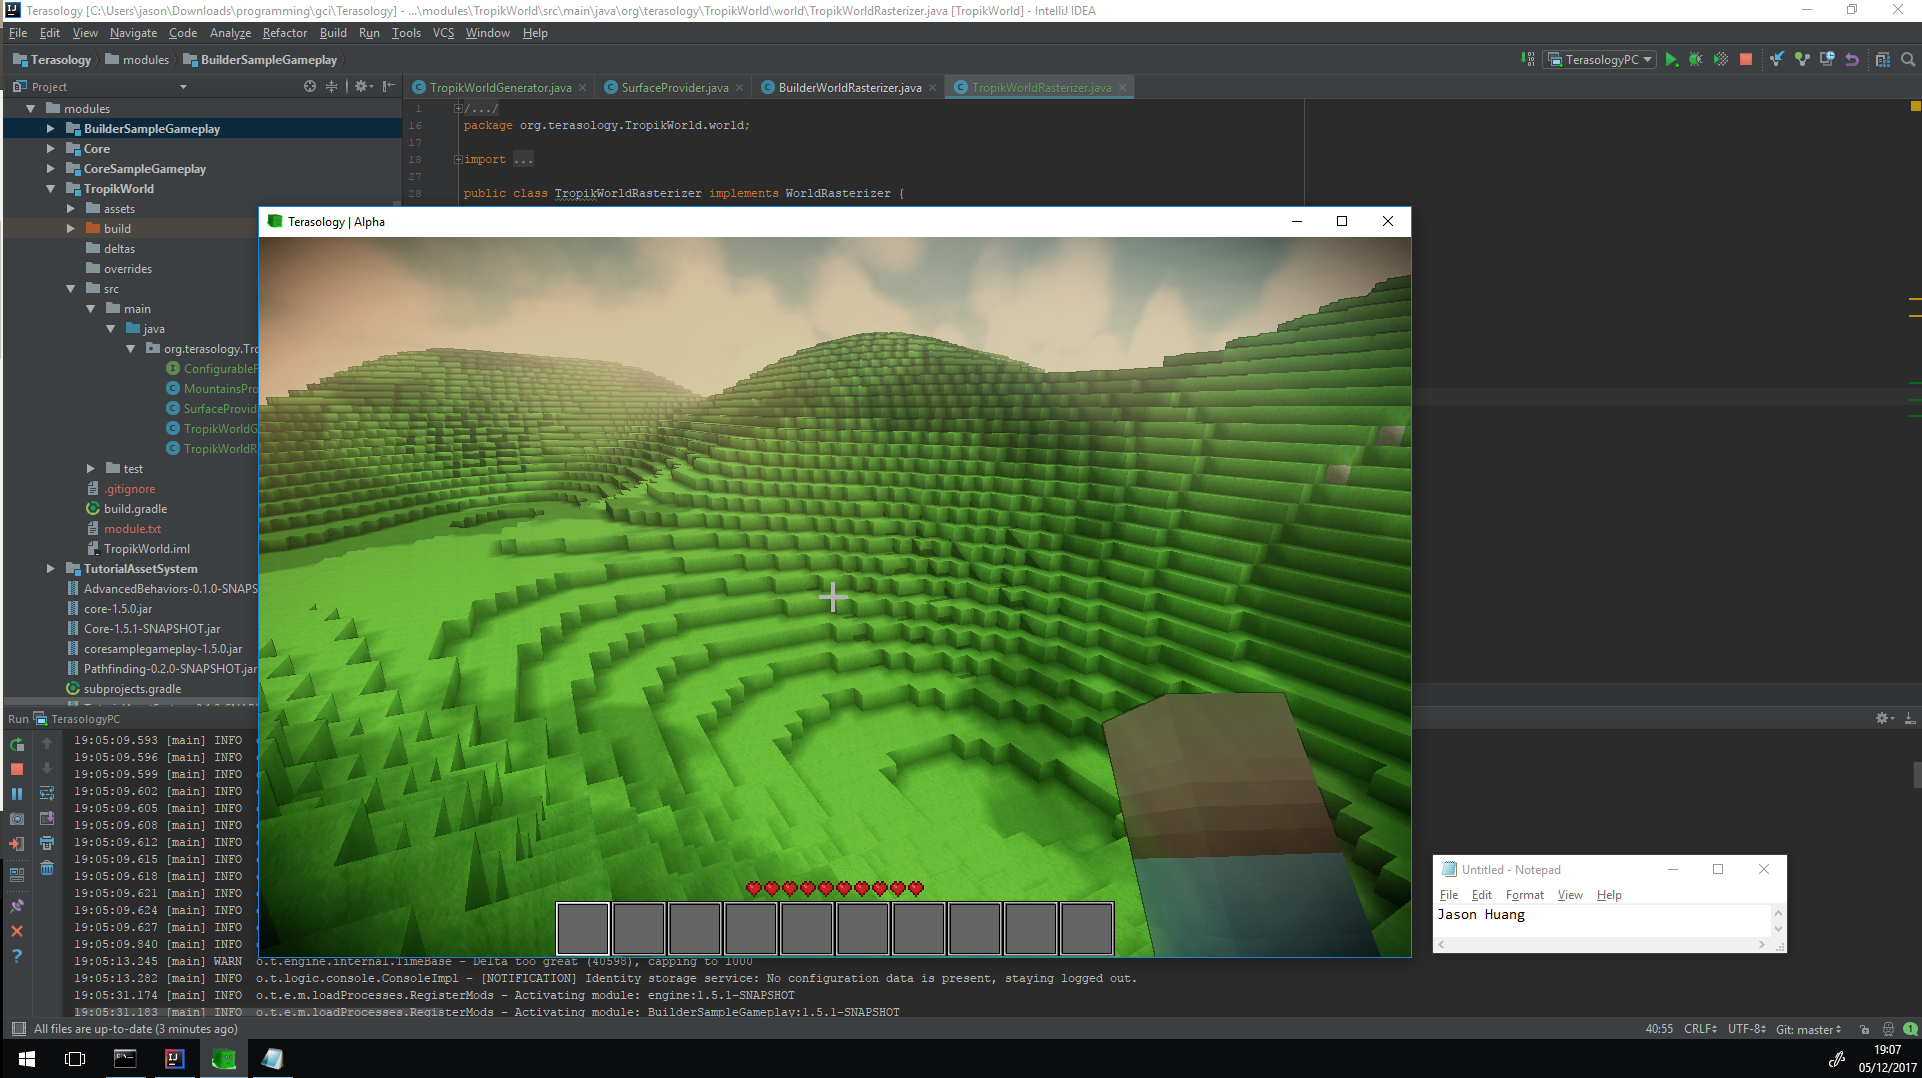
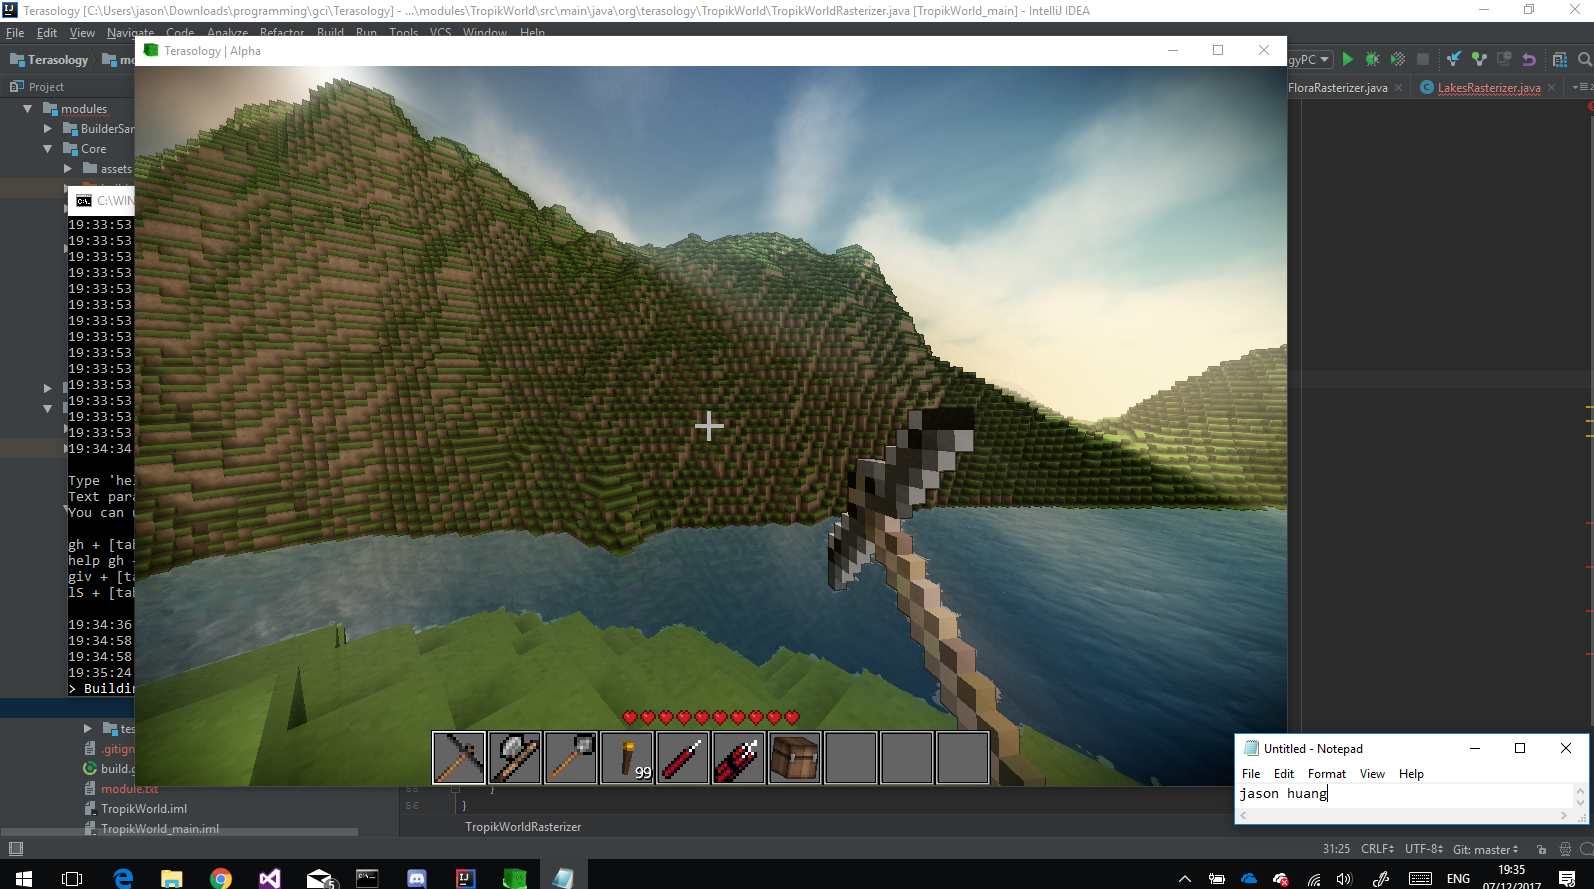
TropikWorld
Fixed the blocks and added mountains and lakes

diff --git a/src/main/java/org/terasology/TropikWorld/LakesRasterizer.java b/src/main/java/org/terasology/TropikWorld/LakesRasterizer.java
@@ -22,34 +22,30 @@ import org.terasology.world.block.Block;
 import org.terasology.world.block.BlockManager;
 import org.terasology.world.chunks.CoreChunk;
 import org.terasology.world.generation.Region;
-import org.terasology.world.generation.WorldRasterizer;
+import org.terasology.world.generation.WorldRasterizerPlugin;
+import org.terasology.world.generation.facets.SeaLevelFacet;
 import org.terasology.world.generation.facets.SurfaceHeightFacet;
+import org.terasology.world.generator.plugin.RegisterPlugin;
 
-public class TropikWorldRasterizer implements WorldRasterizer {
-    private Block dirt;
-    private Block grass;
-    private Block stone;
+
+@RegisterPlugin
+public class LakesRasterizer implements WorldRasterizerPlugin{
+    private Block water;
 
     @Override
-    public void initialize() {
-        dirt = CoreRegistry.get(BlockManager.class).getBlock("Core:Dirt");
-        grass = CoreRegistry.get(BlockManager.class).getBlock("Core:Grass");
-        stone = CoreRegistry.get(BlockManager.class).getBlock("Core:Stone");
+    public void initialize(){
+        water = CoreRegistry.get(BlockManager.class).getBlock("Core:Water");
     }
 
     @Override
-    public void generateChunk(CoreChunk chunk, Region chunkRegion) {
+    public void generateChunk (CoreChunk chunk, Region chunkRegion){
         SurfaceHeightFacet surfaceHeightFacet = chunkRegion.getFacet(SurfaceHeightFacet.class);
+        SeaLevelFacet seaLevelFacet = chunkRegion.getFacet(SeaLevelFacet.class);
+        int seaLevel = seaLevelFacet.getSeaLevel();
         for (Vector3i position : chunkRegion.getRegion()) {
             float surfaceHeight = surfaceHeightFacet.getWorld(position.x, position.z);
-            if (position.y < surfaceHeight - 4){
-                chunk.setBlock(ChunkMath.calcBlockPos(position), stone);
-            }
-            else if (position.y < surfaceHeight - 1) {
-                chunk.setBlock(ChunkMath.calcBlockPos(position), dirt);
-            }
-            else if (position.y < surfaceHeight) {
-                chunk.setBlock(ChunkMath.calcBlockPos(position), grass);
+            if (position.y < seaLevel && position.y > surfaceHeight) {
+                chunk.setBlock(ChunkMath.calcBlockPos(position), water);
             }
         }
     }

diff --git a/src/main/java/org/terasology/TropikWorld/LakesProvider.java b/src/main/java/org/terasology/TropikWorld/LakesProvider.java
@@ -15,41 +15,38 @@
  */
 package org.terasology.TropikWorld;
 
+import org.terasology.math.TeraMath;
 import org.terasology.math.geom.BaseVector2i;
 import org.terasology.math.geom.Rect2i;
 import org.terasology.math.geom.Vector2f;
 import org.terasology.utilities.procedural.Noise;
 import org.terasology.utilities.procedural.SimplexNoise;
 import org.terasology.utilities.procedural.SubSampledNoise;
-import org.terasology.world.generation.Border3D;
-import org.terasology.world.generation.FacetProvider;
-import org.terasology.world.generation.GeneratingRegion;
-import org.terasology.world.generation.Produces;
+import org.terasology.world.generation.*;
 import org.terasology.world.generation.facets.SurfaceHeightFacet;
+import org.terasology.world.generator.plugin.RegisterPlugin;
 
-@Produces(SurfaceHeightFacet.class)
-public class SurfaceProvider implements FacetProvider {
+@RegisterPlugin
+@Updates(@Facet(SurfaceHeightFacet.class))
+public class LakesProvider implements FacetProviderPlugin {
 
-    private Noise surfaceNoise;
+    private Noise lakeNoise;
 
     @Override
     public void setSeed(long seed) {
-        surfaceNoise = new SubSampledNoise(new SimplexNoise(seed), new Vector2f(0.01f, 0.01f), 1);
+        lakeNoise = new SubSampledNoise(new SimplexNoise(seed), new Vector2f(0.01f, 0.01f), 1);
     }
 
     @Override
     public void process (GeneratingRegion region){
-
-        float hillHeight = 25;
-        Border3D border = region.getBorderForFacet(SurfaceHeightFacet.class);
-        SurfaceHeightFacet facet = new SurfaceHeightFacet(region.getRegion(), border);
+        float lakeDepth = 35;
+        SurfaceHeightFacet facet = region.getRegionFacet(SurfaceHeightFacet.class);
 
         Rect2i processRegion = facet.getWorldRegion();
         for (BaseVector2i position : processRegion.contents()) {
-            facet.setWorld(position, surfaceNoise.noise(position.x(), position.y()) * hillHeight);
+            float addDepth = lakeNoise.noise(position.x(), position.y() * lakeDepth);
+            addDepth = TeraMath.clamp(addDepth, -lakeDepth, 0);
+            facet.setWorld(position, facet.getWorld(position) + addDepth);
         }
-
-        region.setRegionFacet(SurfaceHeightFacet.class, facet);
     }
 }
-

diff --git a/src/main/java/org/terasology/TropikWorld/TropikWorldGenerator.java b/src/main/java/org/terasology/TropikWorld/TropikWorldGenerator.java
@@ -13,7 +13,7 @@
  * See the License for the specific language governing permissions and
  * limitations under the License.
  */
-package org.terasology.TropikWorld.world;
+package org.terasology.TropikWorld;
 
 import org.terasology.core.world.generator.facetProviders.SeaLevelProvider;
 import org.terasology.engine.SimpleUri;
@@ -36,6 +36,11 @@ public class TropikWorldGenerator extends BaseFacetedWorldGenerator{
         return new WorldBuilder(worldGeneratorPluginLibrary)
                 .setSeaLevel(0)
                 .addProvider(new SurfaceProvider())
+                .addProvider(new MountainsProvider())
+                .addProvider(new LakesProvider())
+                .addProvider(new SeaLevelProvider(0))
+                .addRasterizer(new LakesRasterizer())
                 .addRasterizer(new TropikWorldRasterizer());
     }
 }
+

diff --git a/src/main/java/org/terasology/TropikWorld/MountainsProvider.java b/src/main/java/org/terasology/TropikWorld/MountainsProvider.java
@@ -13,7 +13,7 @@
  * See the License for the specific language governing permissions and
  * limitations under the License.
  */
-package org.terasology.TropikWorld.world;
+package org.terasology.TropikWorld;
 
 import org.terasology.entitySystem.Component;
 import org.terasology.math.TeraMath;
@@ -78,7 +78,6 @@ public class MountainsProvider implements ConfigurableFacetProvider {
 
     private static class MountainsConfiguration implements Component {
         @Range(min = 200, max = 500f, increment = 20f, precision = 1, description = "Mountain Height")
-        private float mountainHeight = 400;
+        private float mountainHeight = 450;
     }
 }
-

diff --git a/src/main/java/org/terasology/TropikWorld/ConfigurableFacetProvider.java b/src/main/java/org/terasology/TropikWorld/ConfigurableFacetProvider.java
@@ -13,7 +13,7 @@
  * See the License for the specific language governing permissions and
  * limitations under the License.
  */
-package org.terasology.TropikWorld.world;
+package org.terasology.TropikWorld;
 
 import org.terasology.entitySystem.Component;
 import org.terasology.world.generation.FacetProvider;
